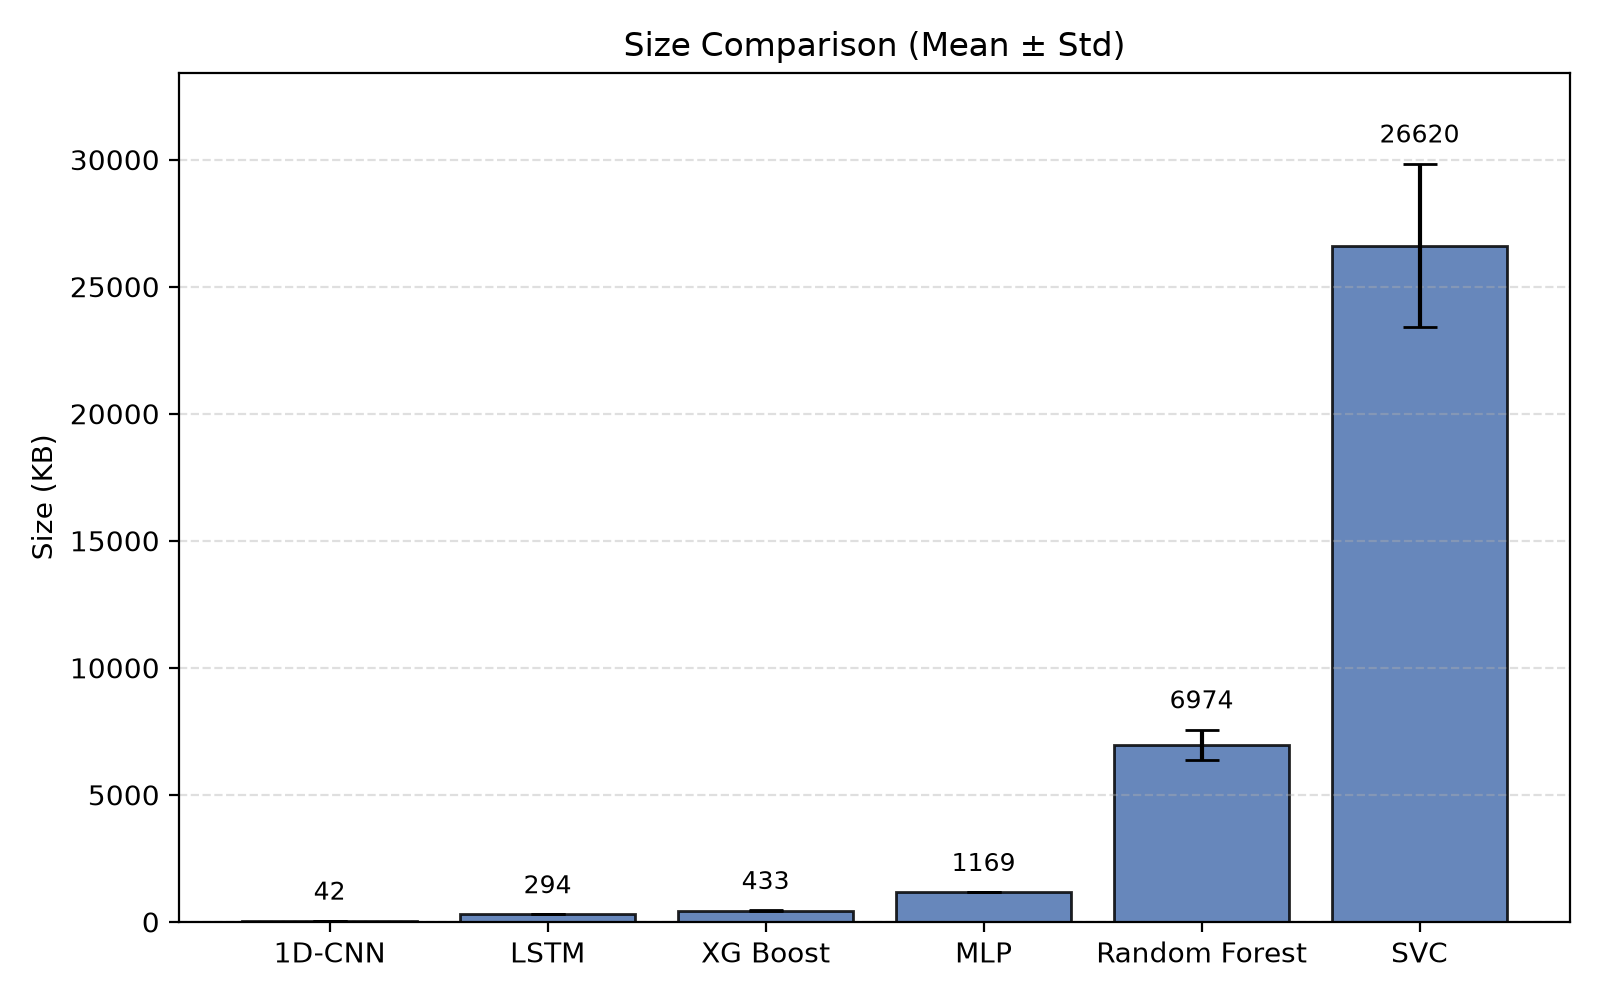
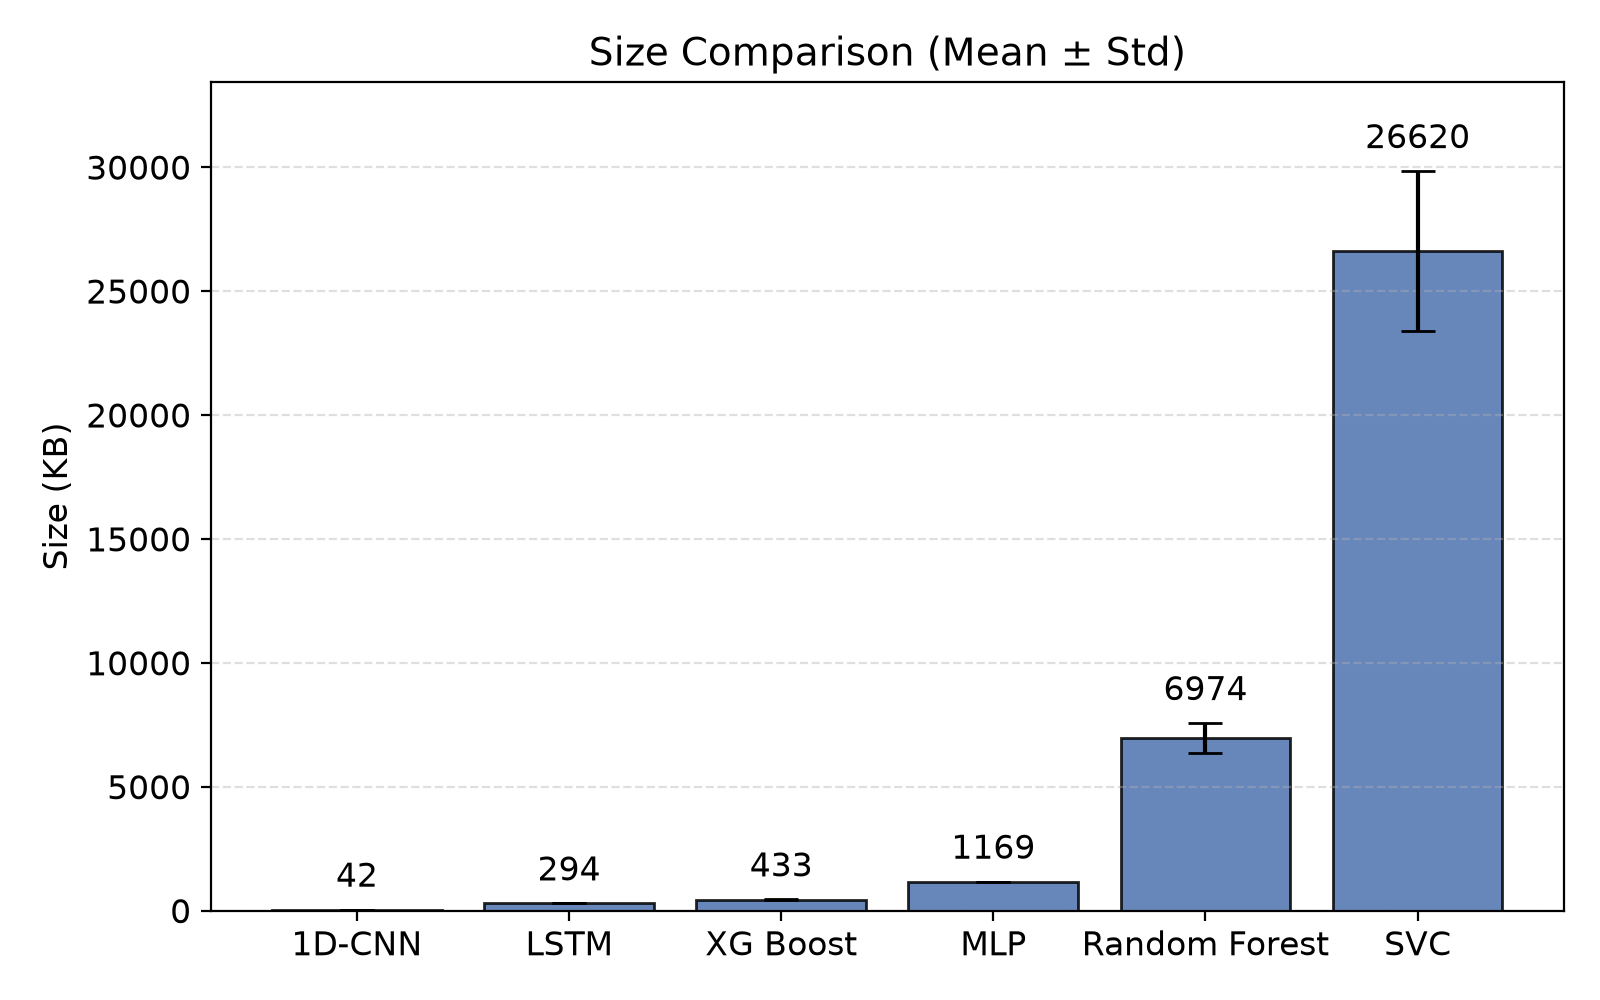
updated charts to use a larger font

diff --git a/src/chart_scripts/ModelStats.py b/src/chart_scripts/ModelStats.py
@@ -10,6 +10,14 @@ import matplotlib.pyplot as plt
 
 CHARTS_DIR = 'charts'
 BLUE_COLOR = '#4C72B0'
+FONT_SIZE = 12
+plt.rcParams.update({
+    'font.size': FONT_SIZE,
+    'axes.titlesize': FONT_SIZE + 2,
+    'axes.labelsize': FONT_SIZE,
+    'xtick.labelsize': FONT_SIZE,
+    'ytick.labelsize': FONT_SIZE,
+})
 
 class ModelStats:
     """
@@ -88,16 +96,16 @@ class ModelStats:
     def print_stats(self):
         
         # print the main metrics with mean and std deviation
-        print(f'\n{self.model_name} Accuracy: {self.scores["accuracy_mean"]:.4f} ± {self.scores["accuracy_std"]:.4f}')
-        print(f'{self.model_name} Precision: {self.scores["precision_mean"]:.4f} ± {self.scores["precision_std"]:.4f}')
-        print(f'{self.model_name} Recall: {self.scores["recall_mean"]:.4f} ± {self.scores["recall_std"]:.4f}')
-        print(f'{self.model_name} F1 Score: {self.scores["f1_mean"]:.4f} ± {self.scores["f1_std"]:.4f}')
-        print(f'{self.model_name} MCC: {self.scores["mcc_mean"]:.4f} ± {self.scores["mcc_std"]:.4f}')
+        print(f'\n{self.model_name} Accuracy: {self.scores["accuracy_mean"]:.3f} ± {self.scores["accuracy_std"]:.3f}')
+        print(f'{self.model_name} Precision: {self.scores["precision_mean"]:.3f} ± {self.scores["precision_std"]:.3f}')
+        print(f'{self.model_name} Recall: {self.scores["recall_mean"]:.3f} ± {self.scores["recall_std"]:.3f}')
+        print(f'{self.model_name} F1 Score: {self.scores["f1_mean"]:.3f} ± {self.scores["f1_std"]:.3f}')
+        print(f'{self.model_name} MCC: {self.scores["mcc_mean"]:.3f} ± {self.scores["mcc_std"]:.3f}')
         
         # print the additional metrics with mean and std deviation
-        print(f'\n{self.model_name} Model Size (KB): {self.scores["model_size_mean"]:.4f} ± {self.scores["model_size_std"]:.4f}')
-        print(f'{self.model_name} Training Time (s): {self.scores["training_time_mean"]:.4f} ± {self.scores["training_time_std"]:.4f}')
-        print(f'{self.model_name} Testing Time (s): {self.scores["testing_time_mean"]:.4f} ± {self.scores["testing_time_std"]:.4f}')
+        print(f'\n{self.model_name} Model Size (KB): {self.scores["model_size_mean"]:.3f} ± {self.scores["model_size_std"]:.3f}')
+        print(f'{self.model_name} Training Time (s): {self.scores["training_time_mean"]:.3f} ± {self.scores["training_time_std"]:.3f}')
+        print(f'{self.model_name} Testing Time (s): {self.scores["testing_time_mean"]:.3f} ± {self.scores["testing_time_std"]:.3f}')
     
 
     def plot_scoring_metrics(self):
@@ -141,12 +149,12 @@ class ModelStats:
                 bar.get_x() + bar.get_width() / 2,
                 label_y,
                 f'{mean:.3f}',
-                ha='center', va='bottom', fontsize=9
+                ha='center', va='bottom', fontsize=FONT_SIZE
             )
 
         ax.set_xticks(x)
-        ax.set_xticklabels(labels)
-        ax.set_ylabel('Score')
+        ax.set_xticklabels(labels, fontsize=FONT_SIZE)
+        ax.set_ylabel('Score', fontsize=FONT_SIZE)
 
         # fixed y-axis ticks for consistency across all model charts
         ax.set_yticks(np.arange(0, 1.01, 0.2))
@@ -156,7 +164,8 @@ class ModelStats:
 
         tallest_label = max(m + s for m, s in zip(means, stds)) + 0.12
         ax.set_ylim(0, max(1.0, tallest_label))
-        ax.set_title(f'{self.model_name} Cross-Validation Metrics (Mean ± Std)')
+        ax.tick_params(axis='both', labelsize=FONT_SIZE)
+        ax.set_title(f'{self.model_name} Cross-Validation Metrics (Mean ± Std)', fontsize=FONT_SIZE + 2)
         ax.grid(axis='y', linestyle='--', alpha=0.4)
 
         plt.tight_layout()

diff --git a/src/chart_scripts/GroupStats.py b/src/chart_scripts/GroupStats.py
@@ -9,7 +9,14 @@ import os
 import numpy as np
 import matplotlib.pyplot as plt
 
-from ModelStats import ModelStats, BLUE_COLOR, CHARTS_DIR
+from ModelStats import ModelStats, BLUE_COLOR, CHARTS_DIR, FONT_SIZE
+plt.rcParams.update({
+    'font.size': FONT_SIZE,
+    'axes.titlesize': FONT_SIZE + 2,
+    'axes.labelsize': FONT_SIZE,
+    'xtick.labelsize': FONT_SIZE,
+    'ytick.labelsize': FONT_SIZE,
+})
 
 
 class GroupStats:
@@ -97,7 +104,7 @@ class GroupStats:
                 bar.get_x() + bar.get_width() / 2,
                 label_y,
                 f'{mean:.0f}',
-                ha='center', va='bottom', fontsize=9
+                ha='center', va='bottom', fontsize=FONT_SIZE
             )
 
         ax.set_xticks(x)
@@ -169,7 +176,7 @@ class GroupStats:
                 bar.get_x() + bar.get_width() / 2,
                 label_y,
                 f'{mean:.1f}',
-                ha='center', va='bottom', fontsize=9
+                ha='center', va='bottom', fontsize=FONT_SIZE
             )
 
         ax.set_xticks(x)
@@ -241,7 +248,7 @@ class GroupStats:
                 bar.get_x() + bar.get_width() / 2,
                 label_y,
                 f'{mean:.1f}',
-                ha='center', va='bottom', fontsize=9
+                ha='center', va='bottom', fontsize=FONT_SIZE
             )
 
         ax.set_xticks(x)
@@ -315,7 +322,7 @@ class GroupStats:
                 bar.get_x() + bar.get_width() / 2,
                 label_y,
                 f'{mean:.1f}',
-                ha='center', va='bottom', fontsize=9
+                ha='center', va='bottom', fontsize=FONT_SIZE
             )
 
         ax.set_xticks(x)
@@ -389,7 +396,7 @@ class GroupStats:
                 bar.get_x() + bar.get_width() / 2,
                 label_y,
                 f'{mean:.1f}',
-                ha='center', va='bottom', fontsize=9
+                ha='center', va='bottom', fontsize=FONT_SIZE
             )
 
         ax.set_xticks(x)
@@ -464,7 +471,7 @@ class GroupStats:
                 bar.get_x() + bar.get_width() / 2,
                 label_y,
                 f'{mean:.3f}',
-                ha='center', va='bottom', fontsize=9
+                ha='center', va='bottom', fontsize=FONT_SIZE
             )
 
         # mapping for dispaying the metric for the y axis and title
